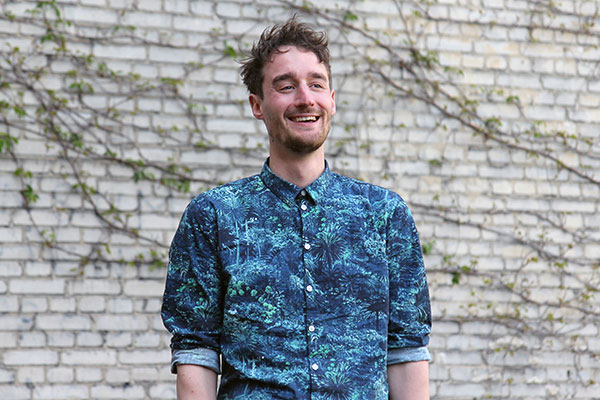
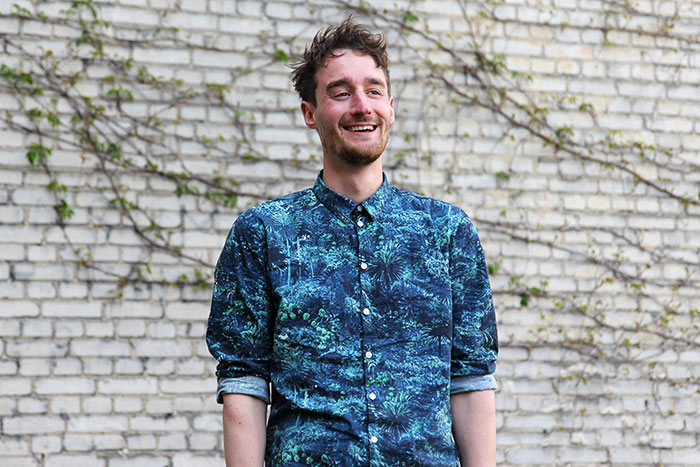
photo optimizations

diff --git a/index.html b/index.html
@@ -94,11 +94,13 @@
         <div class="col-lg-4 col-sm-6">
           <img class="img-responsive" src="img/machine.jpg" />
           <p class="caption">Das Creative Production Lab bringt Unternehmer_innen aus Industrie und Kreativwirtschaft in einem mehrtägigen Workshop zusammen, um die Innovationsfähigkeit auf beiden Seiten zu stärken.</p>
-          <img class="img-responsive" src="img/retune1.jpg" />
-          <p class="caption">Das Retune Festival zieht jährlich über zweihundert Akteure aus dem In- und Ausland an.</p>
-          <img class="img-responsive" src="img/retune2.jpg" />
+          <img class="img-responsive" src="img/vr.jpg" />
+          <p class="caption">In den Studios der Kreativwirtschaft werden neue Technologien auf ihren Bezug zum Menschen hin untersucht</p>
+          <img class="img-responsive" src="img/schubladen.jpg" />
+          <p class="caption">Es geht darum, zu verstehen, wie die anderen ticken und mit welchen Methoden und Technologien sie arbeiten.</p>
+          <img class="img-responsive" src="img/retune.jpg" />
           <p class="caption">Das Retune Festival verbindet seit 2012 Besucher_innen aus den Bereichen Design, Engineering, Coding und Kunst in einem dreitägigen Event.</p>
-          <p class="caption credits">Fotos: Thomas Schlorke, Eigentum der Retune Creative Technology GmbH</p>
+          <p class="caption credits">Fotos: Julian Adenauer und Thomas Schlorke, Eigentum der Retune Creative Technology GmbH</p>
         </div>
       </div>
 
